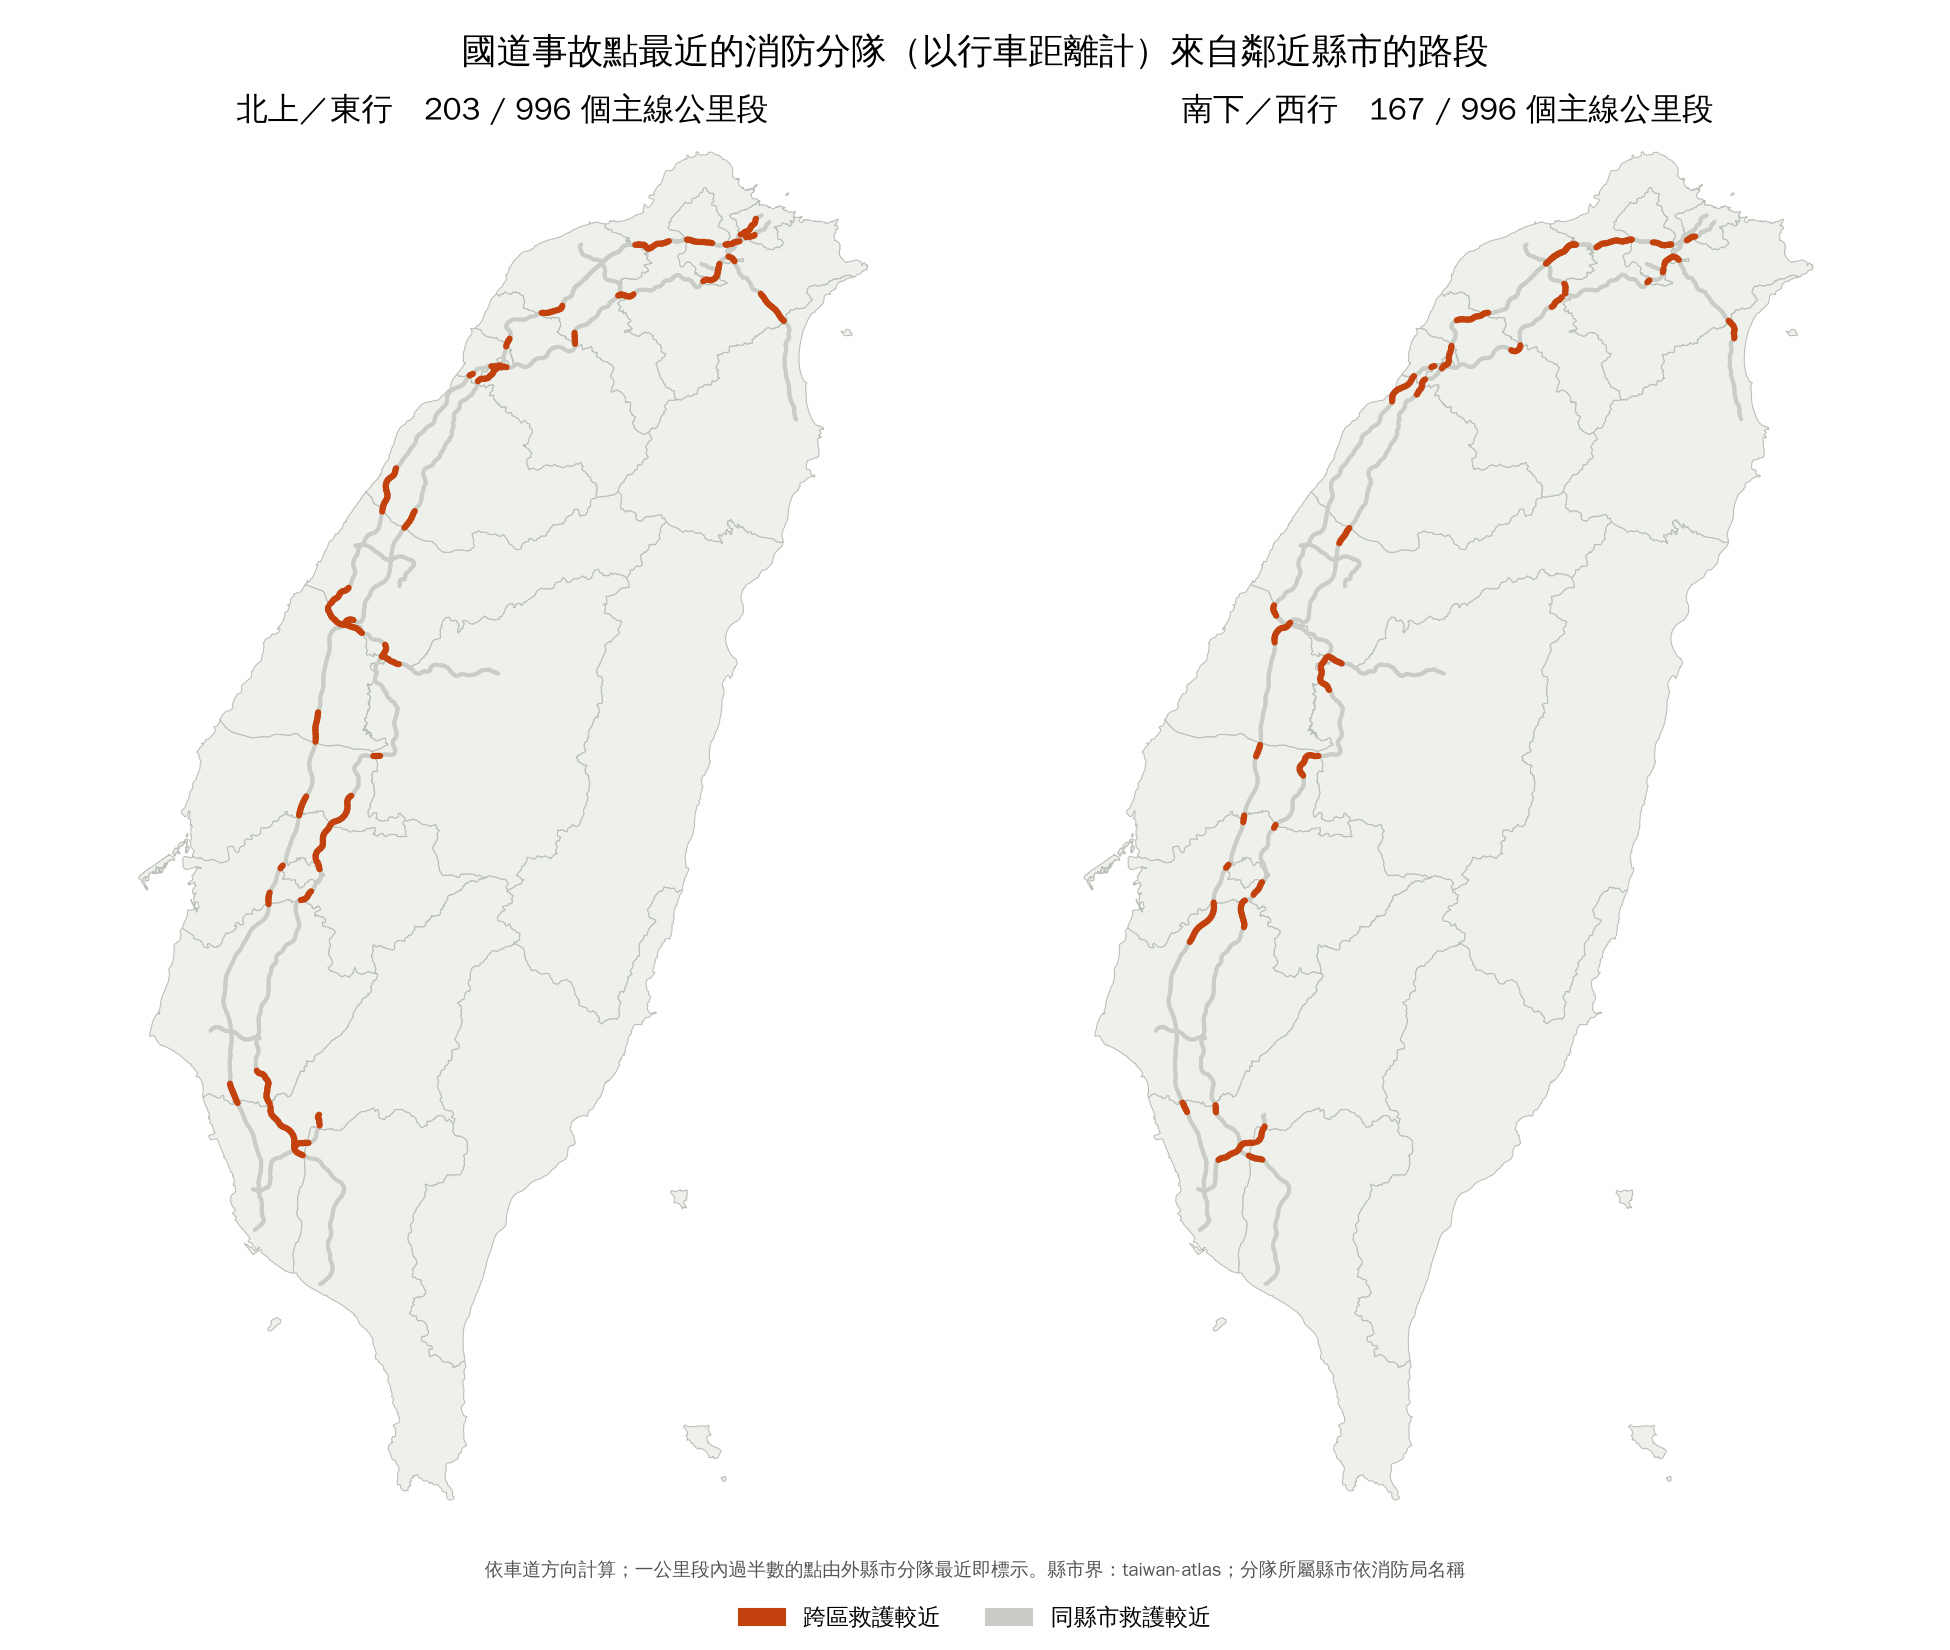
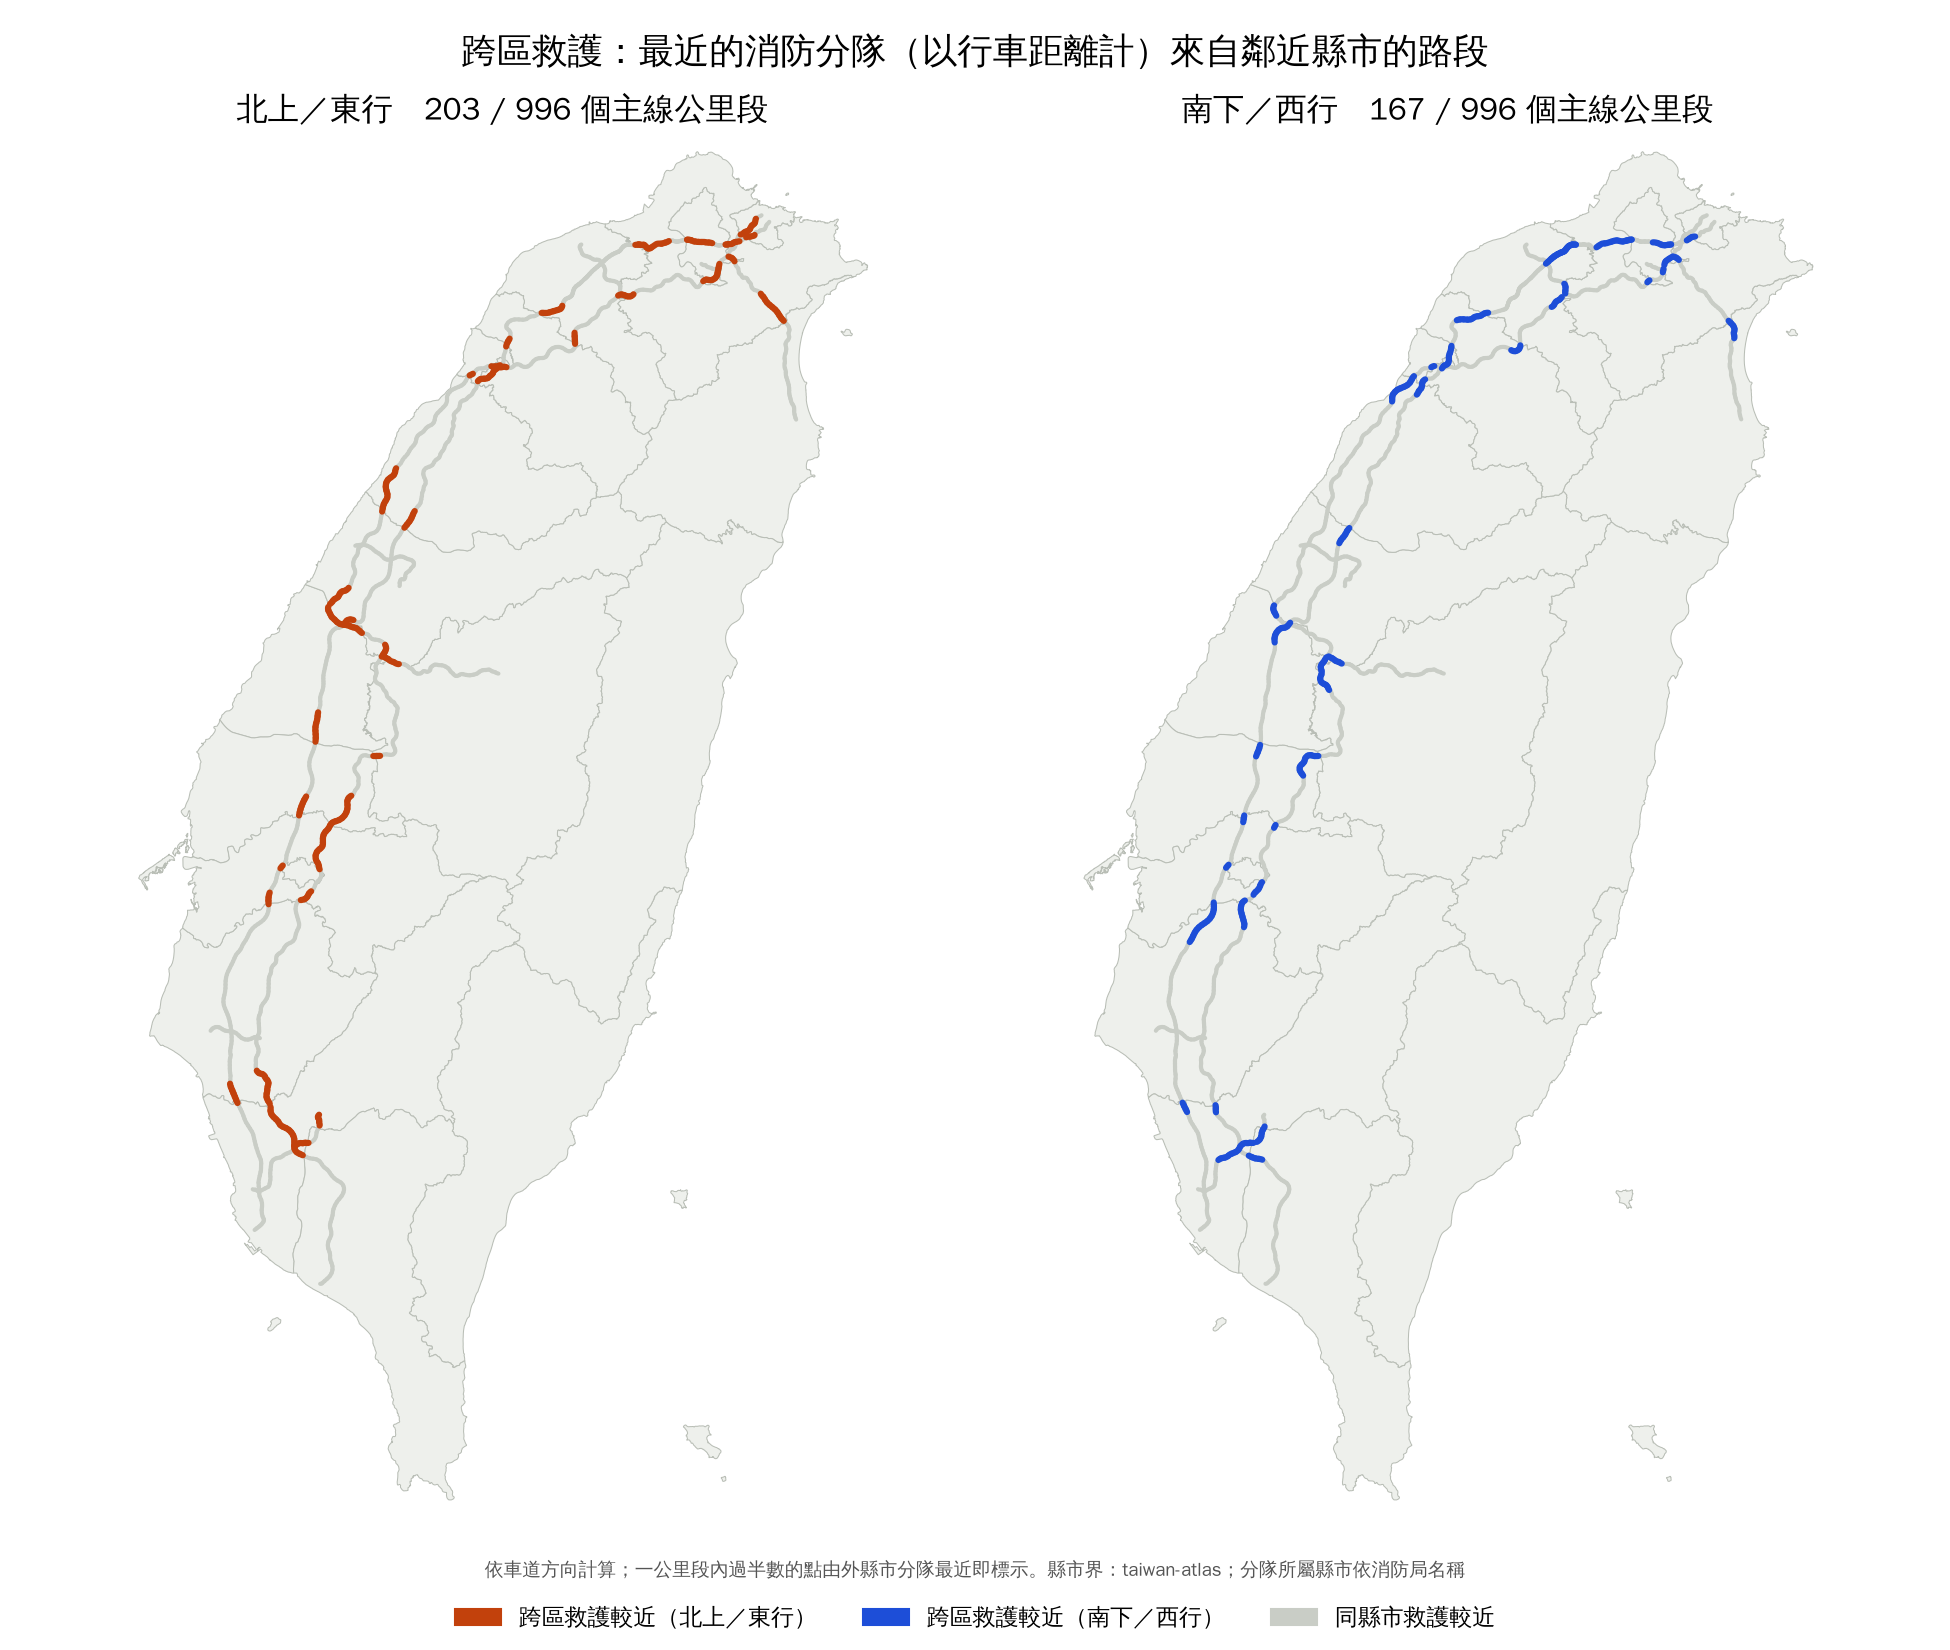
Rename cross-county map to 跨區救護 and colour by direction
Claude-Session: https://claude.ai/code/session_01Yc6JqGDFo7Zj4iR8aFqeHF

diff --git a/scripts/04_maps.py b/scripts/04_maps.py
@@ -81,7 +81,7 @@ def load():
     return seg, counties, stations, hospitals
 
 
-CROSS_COLOR = "#c2410c"
+CROSS_COLOR = {"北上／東行": "#c2410c", "南下／西行": "#1d4ed8"}
 
 
 def norm_county(name):
@@ -147,7 +147,7 @@ def static_cross_map(seg, counties, runs):
     for ax, grp in zip(axes, ["北上／東行", "南下／西行"]):
         counties.plot(ax=ax, color="#eef0ec", edgecolor="#b9beb6", linewidth=0.5)
         sub = seg[seg.direction.map(DIR_GROUP) == grp]
-        for flag, color, lw in [(False, "#c9cdc6", 2.0), (True, CROSS_COLOR, 3.0)]:
+        for flag, color, lw in [(False, "#c9cdc6", 2.0), (True, CROSS_COLOR[grp], 3.0)]:
             part = sub[sub.cross_county == flag]
             ax.add_collection(LineCollection([np.array(c) for c in part.coords], colors=color,
                                              linewidths=lw, capstyle="round"))
@@ -157,10 +157,11 @@ def static_cross_map(seg, counties, runs):
         ax.set_aspect(1 / np.cos(np.radians(23.7)))
         ax.set_axis_off()
         ax.set_title(f"{grp}　{int(main.cross_county.sum())} / {len(main)} 個主線公里段", fontsize=15)
-    handles = [Patch(color=CROSS_COLOR, label="跨區救護較近"),
+    handles = [Patch(color=CROSS_COLOR["北上／東行"], label="跨區救護較近（北上／東行）"),
+               Patch(color=CROSS_COLOR["南下／西行"], label="跨區救護較近（南下／西行）"),
                Patch(color="#c9cdc6", label="同縣市救護較近")]
-    fig.legend(handles=handles, loc="lower center", ncol=2, frameon=False, fontsize=11)
-    fig.suptitle("國道事故點最近的消防分隊（以行車距離計）來自鄰近縣市的路段", fontsize=17)
+    fig.legend(handles=handles, loc="lower center", ncol=3, frameon=False, fontsize=11)
+    fig.suptitle("跨區救護：最近的消防分隊（以行車距離計）來自鄰近縣市的路段", fontsize=17)
     fig.text(0.5, 0.045, "依車道方向計算；一公里段內過半數的點由外縣市分隊最近即標示。"
              "縣市界：taiwan-atlas；分隊所屬縣市依消防局名稱", ha="center", fontsize=9, color="#555")
     fig.subplots_adjust(left=0.02, right=0.98, top=0.92, bottom=0.08, wspace=0.02)

diff --git a/README.md b/README.md
@@ -11,8 +11,8 @@
 - 靜態地圖：
   - 反應：`output/map_distance.png`、`output/map_time.png`
   - 送醫：`output/map_hospital_distance.png`、`output/map_hospital_time.png`
-  - 跨縣市：`output/map_cross_county.png`，標出最近分隊屬於鄰近縣市的路段
-- 跨縣市路段清單：`output/cross_county_segments.csv`
+  - 跨區救護：`output/map_cross_county.png`，標出由鄰近縣市分隊救護較近的路段，北上／東行與南下／西行用不同顏色
+- 跨區救護路段清單：`output/cross_county_segments.csv`
 - 每公里路段結果：`output/segments.csv`
 - 各指標的最遠點位排行：`output/farthest_points.csv`
 
@@ -37,7 +37,7 @@
 
 反應時間和反應距離的排序大致相同。路段若是由快速道路接近，時間排名會略低一些。
 
-## 跨縣市：最近的消防分隊不在事故所在縣市
+## 跨區救護：最近的消防分隊不在事故所在縣市
 
 主線 1,992 個公里段中，有 **370 段**（北上／東行 203 段、南下／西行 167 段）以行車距離計算時，最近的消防分隊屬於鄰近縣市，而不是事故點所在的縣市。如果改用行車時間判斷，則是 381 段。
 
@@ -45,7 +45,7 @@
 - 每 100 m 取樣一次，用縣市界判斷事故點所在縣市。
 - 依消防局名稱（例如「臺中市政府消防局…」）判斷最近分隊所屬的縣市。
 - 一公里段內若過半數取樣點的最近分隊屬於別的縣市，就標示該段。
-- 地圖只標示「是否跨縣市」，所以只用一種顏色。
+- 地圖只標示「是否跨區救護較近」，北上／東行用橘色、南下／西行用藍色，同縣市救護較近的路段以灰色表示。
 
 連續最長的幾段：
 

diff --git a/VERIFY.md b/VERIFY.md
@@ -79,11 +79,11 @@ OSM 資料版本：BBBike `asia-south-china` 擷取，2026-10-14。
   - 這幾家都需要確認：名單上的重度級資格是不是就是這個院區。
 - **即將到期的效期**：臺北市立聯合醫院仁愛院區、彰濱秀傳、台東馬偕等的效期到 115/12/31，換證後名單可能會變動。
 
-## 四、跨縣市地圖
+## 四、跨區救護地圖
 
 - **事故點的縣市**：用 npm 套件 taiwan-atlas（2021 年版）的縣市界判斷。界線經過簡化，所以縣市交界附近的一兩個公里段可能會判斷錯誤。
 - **分隊的縣市**：依消防局名稱前三字判斷，例如「臺中市政府消防局…」即為臺中市，並已處理「台／臺」寫法差異。
-- **門檻**：一公里段內過半數取樣點的最近分隊在外縣市，才標示為跨縣市。
+- **門檻**：一公里段內過半數取樣點的最近分隊在外縣市，才標示為「跨區救護較近」。
 - **依據的指標**：以行車距離最近為準（370 段）。若改以行車時間最近，則為 381 段。
 - **實際派遣不同**：地圖只依「最近」規則繪製，沒有反映縣市間的派遣協定或固定分工（例如五楊高架南、北向各由固定分隊負責），所以不等於實際的出勤單位。
 
